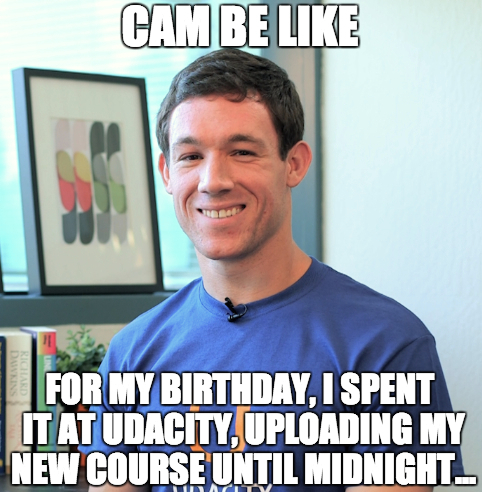
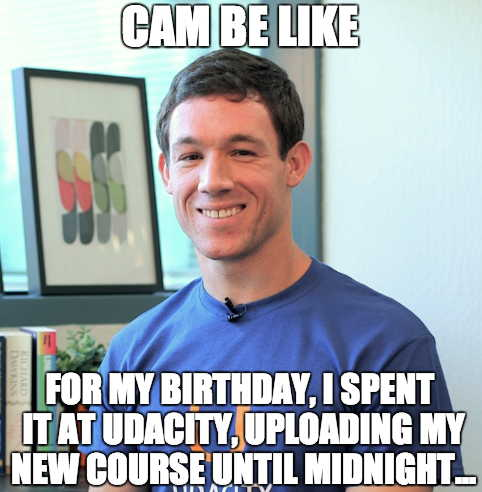
compress other images

diff --git a/views/js/main.min.js b/views/js/main.min.js
@@ -1,1 +1,1 @@
-function getAdj(e){switch(e){case"dark":var a=["dark","morbid","scary","spooky","gothic","deviant","creepy","sadistic","black","dangerous","dejected","haunted","morose","tragic","shattered","broken","sad","melancholy","somber","dark","gloomy","homicidal","murderous","shady","misty","dusky","ghostly","shadowy","demented","cursed","insane","possessed","grotesque","obsessed"];return a;case"color":var r=["blue","green","purple","grey","scarlet","NeonGreen","NeonBlue","NeonPink","HotPink","pink","black","red","maroon","silver","golden","yellow","orange","mustard","plum","violet","cerulean","brown","lavender","violet","magenta","chestnut","rosy","copper","crimson","teal","indigo","navy","azure","periwinkle","brassy","verdigris","veridian","tan","raspberry","beige","sandy","ElectricBlue","white","champagne","coral","cyan"];return r;case"whimsical":var n=["whimsical","silly","drunken","goofy","funny","weird","strange","odd","playful","clever","boastful","breakdancing","hilarious","conceited","happy","comical","curious","peculiar","quaint","quirky","fancy","wayward","fickle","yawning","sleepy","cockeyed","dizzy","dancing","absurd","laughing","hairy","smiling","perplexed","baffled","cockamamie","vulgar","hoodwinked","brainwashed"];return n;case"shiny":var i=["sapphire","opal","silver","gold","platinum","ruby","emerald","topaz","diamond","amethyst","turquoise","starlit","moonlit","bronze","metal","jade","amber","garnet","obsidian","onyx","pearl","copper","sunlit","brass","brassy","metallic"];return i;case"noisy":var t=["untuned","loud","soft","shrieking","melodious","musical","operatic","symphonic","dancing","lyrical","harmonic","orchestral","noisy","dissonant","rhythmic","hissing","singing","crooning","shouting","screaming","wailing","crying","howling","yelling","hollering","caterwauling","bawling","bellowing","roaring","squealing","beeping","knocking","tapping","rapping","humming","scatting","whispered","whispering","rasping","buzzing","whirring","whistling","whistled"];return t;case"apocalyptic":var o=["nuclear","apocalyptic","desolate","atomic","zombie","collapsed","grim","fallen","collapsed","cannibalistic","radioactive","toxic","poisonous","venomous","disastrous","grimy","dirty","undead","bloodshot","rusty","glowing","decaying","rotten","deadly","plagued","decimated","rotting","putrid","decayed","deserted","acidic"];return o;case"insulting":var s=["stupid","idiotic","fat","ugly","hideous","grotesque","dull","dumb","lazy","sluggish","brainless","slow","gullible","obtuse","dense","dim","dazed","ridiculous","witless","daft","crazy","vapid","inane","mundane","hollow","vacuous","boring","insipid","tedious","monotonous","weird","bizarre","backward","moronic","ignorant","scatterbrained","forgetful","careless","lethargic","insolent","indolent","loitering","gross","disgusting","bland","horrid","unseemly","revolting","homely","deformed","disfigured","offensive","cowardly","weak","villainous","fearful","monstrous","unattractive","unpleasant","nasty","beastly","snide","horrible","syncophantic","unhelpful","bootlicking"];return s;case"praise":var l=["beautiful","intelligent","smart","genius","ingenious","gorgeous","pretty","witty","angelic","handsome","graceful","talented","exquisite","enchanting","fascinating","interesting","divine","alluring","ravishing","wonderful","magnificient","marvelous","dazzling","cute","charming","attractive","nifty","delightful","superior","amiable","gentle","heroic","courageous","valiant","brave","noble","daring","fearless","gallant","adventurous","cool","enthusiastic","fierce","awesome","radical","tubular","fearsome","majestic","grand","stunning"];return l;case"scientific":var c=["scientific","technical","digital","programming","calculating","formulating","cyberpunk","mechanical","technological","innovative","brainy","chemical","quantum","astro","space","theoretical","atomic","electronic","gaseous","investigative","solar","extinct","galactic"];return c;default:var c=["scientific","technical","digital","programming","calculating","formulating","cyberpunk","mechanical","technological","innovative","brainy","chemical","quantum","astro","space","theoretical","atomic","electronic","gaseous","investigative","solar","extinct","galactic"];return c}}function getNoun(e){switch(e){case"animals":var a=["flamingo","hedgehog","owl","elephant","pussycat","alligator","dachsund","poodle","beagle","crocodile","kangaroo","wallaby","woodpecker","eagle","falcon","canary","parrot","parakeet","hamster","gerbil","squirrel","rat","dove","toucan","raccoon","vulture","peacock","goldfish","rook","koala","skunk","goat","rooster","fox","porcupine","llama","grasshopper","gorilla","monkey","seahorse","wombat","wolf","giraffe","badger","lion","mouse","beetle","cricket","nightingale","hawk","trout","squid","octopus","sloth","snail","locust","baboon","lemur","meerkat","oyster","frog","toad","jellyfish","butterfly","caterpillar","tiger","hyena","zebra","snail","pig","weasel","donkey","penguin","crane","buzzard","vulture","rhino","hippopotamus","dolphin","sparrow","beaver","moose","minnow","otter","bat","mongoose","swan","firefly","platypus"];return a;case"profession":var r=["doctor","lawyer","ninja","writer","samurai","surgeon","clerk","artist","actor","engineer","mechanic","comedian","fireman","nurse","RockStar","musician","carpenter","plumber","cashier","electrician","waiter","president","governor","senator","scientist","programmer","singer","dancer","director","mayor","merchant","detective","investigator","navigator","pilot","priest","cowboy","stagehand","soldier","ambassador","pirate","miner","police"];return r;case"fantasy":var n=["centaur","wizard","gnome","orc","troll","sword","fairy","pegasus","halfling","elf","changeling","ghost","knight","squire","magician","witch","warlock","unicorn","dragon","wyvern","princess","prince","king","queen","jester","tower","castle","kraken","seamonster","mermaid","psychic","seer","oracle"];return n;case"music":var i=["violin","flute","bagpipe","guitar","symphony","orchestra","piano","trombone","tuba","opera","drums","harpsichord","harp","harmonica","accordion","tenor","soprano","baritone","cello","viola","piccolo","ukelele","woodwind","saxophone","bugle","trumpet","sousaphone","cornet","stradivarius","marimbas","bells","timpani","bongos","clarinet","recorder","oboe","conductor","singer"];return i;case"horror":var t=["murderer","chainsaw","knife","sword","murder","devil","killer","psycho","ghost","monster","godzilla","werewolf","vampire","demon","graveyard","zombie","mummy","curse","death","grave","tomb","beast","nightmare","frankenstein","specter","poltergeist","wraith","corpse","scream","massacre","cannibal","skull","bones","undertaker","zombie","creature","mask","psychopath","fiend","satanist","moon","fullMoon"];return t;case"gross":var o=["slime","bug","roach","fluid","pus","booger","spit","boil","blister","orifice","secretion","mucus","phlegm","centipede","beetle","fart","snot","crevice","flatulence","juice","mold","mildew","germs","discharge","toilet","udder","odor","substance","fluid","moisture","garbage","trash","bug"];return o;case"everyday":var s=["mirror","knife","fork","spork","spoon","tupperware","minivan","suburb","lamp","desk","stereo","television","TV","book","car","truck","soda","door","video","game","computer","calender","tree","plant","flower","chimney","attic","kitchen","garden","school","wallet","bottle"];return s;case"jewelry":var l=["earrings","ring","necklace","pendant","choker","brooch","bracelet","cameo","charm","bauble","trinket","jewelry","anklet","bangle","locket","finery","crown","tiara","blingBling","chain","rosary","jewel","gemstone","beads","armband","pin","costume","ornament","treasure"];return l;case"places":var c=["swamp","graveyard","cemetery","park","building","house","river","ocean","sea","field","forest","woods","neighborhood","city","town","suburb","country","meadow","cliffs","lake","stream","creek","school","college","university","library","bakery","shop","store","theater","garden","canyon","highway","restaurant","cafe","diner","street","road","freeway","alley"];return c;case"scifi":var u=["robot","alien","raygun","spaceship","UFO","rocket","phaser","astronaut","spaceman","planet","star","galaxy","computer","future","timeMachine","wormHole","timeTraveler","scientist","invention","martian","pluto","jupiter","saturn","mars","quasar","blackHole","warpDrive","laser","orbit","gears","molecule","electron","neutrino","proton","experiment","photon","apparatus","universe","gravity","darkMatter","constellation","circuit","asteroid"];return u;default:var u=["robot","alien","raygun","spaceship","UFO","rocket","phaser","astronaut","spaceman","planet","star","galaxy","computer","future","timeMachine","wormHole","timeTraveler","scientist","invention","martian","pluto","jupiter","saturn","mars","quasar","blackHole","warpDrive","laser","orbit","gears","molecule","electron","neutrino","proton","experiment","photon","apparatus","universe","gravity","darkMatter","constellation","circuit","asteroid"];return u}}function generator(e,a){var r=getAdj(e),n=getNoun(a),i=parseInt(Math.random()*r.length),t=parseInt(Math.random()*n.length),o="The "+r[i].capitalize()+" "+n[t].capitalize();return o}function randomName(){var e=parseInt(Math.random()*adjectives.length),a=parseInt(Math.random()*nouns.length);return generator(adjectives[e],nouns[a])}function logAverageFrame(e){for(var a=e.length,r=0,n=a-1;n>a-11;n--)r+=e[n].duration;console.log("Average time to generate last 10 frames: "+r/10+"ms")}function updatePositions(e){function a(e){return/^\d*$/.test(e)}frame++,window.performance.mark("mark_start_frame");var r,n=document.querySelectorAll(".mover");r=a(e)?e:document.body.scrollTop;for(var i=0;i<n.length;i++){var t=Math.sin(r/1250+i%5);n[i].style.transform="translateX("+100*t+"px)"}if(window.performance.mark("mark_end_frame"),window.performance.measure("measure_frame_duration","mark_start_frame","mark_end_frame"),frame%10===0){var o=window.performance.getEntriesByName("measure_frame_duration");logAverageFrame(o)}}function genMovPizzas(){for(var e=8,a=256,r=document.querySelector("#movingPizzas1"),n=0;200>n;n++){var i=document.createElement("img");i.className="mover",i.src="images/pizza.webp",i.style.height="100px",i.style.width="73.333px",i.style.left=n%e*a+"px",i.style.top=Math.floor(n/e)*a+"px",r.appendChild(i)}updatePositions(0)}var pizzaIngredients={};pizzaIngredients.meats=["Pepperoni","Sausage","Fennel Sausage","Spicy Sausage","Chicken","BBQ Chicken","Chorizo","Chicken Andouille","Salami","Tofu","Bacon","Canadian Bacon","Proscuitto","Italian Sausage","Ground Beef","Anchovies","Turkey","Ham","Venison","Lamb","Duck","Soylent Green","Carne Asada","Soppressata Picante","Coppa","Pancetta","Bresola","Lox","Guanciale","Chili","Beef Jerky","Pastrami","Kielbasa","Scallops","Filet Mignon"],pizzaIngredients.nonMeats=["White Onions","Red Onions","Sauteed Onions","Green Peppers","Red Peppers","Banana Peppers","Ghost Peppers","Habanero Peppers","Jalapeno Peppers","Stuffed Peppers","Spinach","Tomatoes","Pineapple","Pear Slices","Apple Slices","Mushrooms","Arugula","Basil","Fennel","Rosemary","Cilantro","Avocado","Guacamole","Salsa","Swiss Chard","Kale","Sun Dried Tomatoes","Walnuts","Artichoke","Asparagus","Caramelized Onions","Mango","Garlic","Olives","Cauliflower","Polenta","Fried Egg","Zucchini","Hummus"],pizzaIngredients.cheeses=["American Cheese","Swiss Cheese","Goat Cheese","Mozzarella Cheese","Parmesean Cheese","Velveeta Cheese","Gouda Cheese","Muenster Cheese","Applewood Cheese","Asiago Cheese","Bleu Cheese","Boursin Cheese","Brie Cheese","Cheddar Cheese","Chevre Cheese","Havarti Cheese","Jack Cheese","Pepper Jack Cheese","Gruyere Cheese","Limberger Cheese","Manchego Cheese","Marscapone Cheese","Pecorino Cheese","Provolone Cheese","Queso Cheese","Roquefort Cheese","Romano Cheese","Ricotta Cheese","Smoked Gouda"],pizzaIngredients.sauces=["Red Sauce","Marinara","BBQ Sauce","No Sauce","Hot Sauce"],pizzaIngredients.crusts=["White Crust","Whole Wheat Crust","Flatbread Crust","Stuffed Crust"],String.prototype.capitalize=function(){return this.charAt(0).toUpperCase()+this.slice(1)};var adjectives=["dark","color","whimsical","shiny","noise","apocalyptic","insulting","praise","scientific"],nouns=["animals","everyday","fantasy","gross","horror","jewelry","places","scifi"],selectRandomMeat=function(){var e=pizzaIngredients.meats[Math.floor(Math.random()*pizzaIngredients.meats.length)];return e},selectRandomNonMeat=function(){var e=pizzaIngredients.nonMeats[Math.floor(Math.random()*pizzaIngredients.nonMeats.length)];return e},selectRandomCheese=function(){var e=pizzaIngredients.cheeses[Math.floor(Math.random()*pizzaIngredients.cheeses.length)];return e},selectRandomSauce=function(){var e=pizzaIngredients.sauces[Math.floor(Math.random()*pizzaIngredients.sauces.length)];return e},selectRandomCrust=function(){var e=pizzaIngredients.crusts[Math.floor(Math.random()*pizzaIngredients.crusts.length)];return e},ingredientItemizer=function(e){return"<li>"+e+"</li>"},makeRandomPizza=function(){for(var e="",a=Math.floor(4*Math.random()),r=Math.floor(3*Math.random()),n=Math.floor(2*Math.random()),i=0;a>i;i++)e+=ingredientItemizer(selectRandomMeat());for(var i=0;r>i;i++)e+=ingredientItemizer(selectRandomNonMeat());for(var i=0;n>i;i++)e+=ingredientItemizer(selectRandomCheese());return e+=ingredientItemizer(selectRandomSauce()),e+=ingredientItemizer(selectRandomCrust())},pizzaElementGenerator=function(e){var a,r,n,i,t,o;return a=document.createElement("div"),r=document.createElement("div"),n=document.createElement("img"),i=document.createElement("div"),a.classList.add("randomPizzaContainer"),a.style.width="33.33%",a.style.height="325px",a.id="pizza"+e,r.classList.add("col-md-6"),n.src="images/pizza.webp",n.classList.add("img-responsive"),r.appendChild(n),a.appendChild(r),i.classList.add("col-md-6"),t=document.createElement("h4"),t.innerHTML=randomName(),i.appendChild(t),o=document.createElement("ul"),o.innerHTML=makeRandomPizza(),i.appendChild(o),a.appendChild(i),a},resizePizzas=function(e){function a(e){switch(e){case"1":return void(document.querySelector("#pizzaSize").innerHTML="Small");case"2":return void(document.querySelector("#pizzaSize").innerHTML="Medium");case"3":return void(document.querySelector("#pizzaSize").innerHTML="Large");default:console.log("bug in changeSliderLabel")}}function r(e,a){function r(e){switch(e){case"1":return.25;case"2":return.3333;case"3":return.5;default:console.log("bug in sizeSwitcher")}}var n=e.offsetWidth,i=document.querySelector("#randomPizzas").offsetWidth,t=n/i,o=r(a),s=(o-t)*i;return s}function n(e){var a,n=document.querySelectorAll(".randomPizzaContainer");for(a=0;a<n.length;a++){var i=r(n[a],e),t=n[a].offsetWidth+i+"px";n[a].style.width=t}}window.performance.mark("mark_start_resize"),a(e),n(e),window.performance.mark("mark_end_resize"),window.performance.measure("measure_pizza_resize","mark_start_resize","mark_end_resize");var i=window.performance.getEntriesByName("measure_pizza_resize");console.log("Time to resize pizzas: "+i[0].duration+"ms")};window.performance.mark("mark_start_generating");for(var pizzasDiv=document.getElementById("randomPizzas"),i=2;100>i;i++)pizzasDiv.appendChild(pizzaElementGenerator(i));window.performance.mark("mark_end_generating"),window.performance.measure("measure_pizza_generation","mark_start_generating","mark_end_generating");var timeToGenerate=window.performance.getEntriesByName("measure_pizza_generation");console.log("Time to generate pizzas on load: "+timeToGenerate[0].duration+"ms");var frame=0;window.addEventListener("scroll",updatePositions),"loading"!=document.readyState?genMovPizzas():document.addEventListener("DOMContentLoaded",genMovPizzas);
+function getAdj(e){switch(e){case"dark":var a=["dark","morbid","scary","spooky","gothic","deviant","creepy","sadistic","black","dangerous","dejected","haunted","morose","tragic","shattered","broken","sad","melancholy","somber","dark","gloomy","homicidal","murderous","shady","misty","dusky","ghostly","shadowy","demented","cursed","insane","possessed","grotesque","obsessed"];return a;case"color":var r=["blue","green","purple","grey","scarlet","NeonGreen","NeonBlue","NeonPink","HotPink","pink","black","red","maroon","silver","golden","yellow","orange","mustard","plum","violet","cerulean","brown","lavender","violet","magenta","chestnut","rosy","copper","crimson","teal","indigo","navy","azure","periwinkle","brassy","verdigris","veridian","tan","raspberry","beige","sandy","ElectricBlue","white","champagne","coral","cyan"];return r;case"whimsical":var n=["whimsical","silly","drunken","goofy","funny","weird","strange","odd","playful","clever","boastful","breakdancing","hilarious","conceited","happy","comical","curious","peculiar","quaint","quirky","fancy","wayward","fickle","yawning","sleepy","cockeyed","dizzy","dancing","absurd","laughing","hairy","smiling","perplexed","baffled","cockamamie","vulgar","hoodwinked","brainwashed"];return n;case"shiny":var i=["sapphire","opal","silver","gold","platinum","ruby","emerald","topaz","diamond","amethyst","turquoise","starlit","moonlit","bronze","metal","jade","amber","garnet","obsidian","onyx","pearl","copper","sunlit","brass","brassy","metallic"];return i;case"noisy":var t=["untuned","loud","soft","shrieking","melodious","musical","operatic","symphonic","dancing","lyrical","harmonic","orchestral","noisy","dissonant","rhythmic","hissing","singing","crooning","shouting","screaming","wailing","crying","howling","yelling","hollering","caterwauling","bawling","bellowing","roaring","squealing","beeping","knocking","tapping","rapping","humming","scatting","whispered","whispering","rasping","buzzing","whirring","whistling","whistled"];return t;case"apocalyptic":var o=["nuclear","apocalyptic","desolate","atomic","zombie","collapsed","grim","fallen","collapsed","cannibalistic","radioactive","toxic","poisonous","venomous","disastrous","grimy","dirty","undead","bloodshot","rusty","glowing","decaying","rotten","deadly","plagued","decimated","rotting","putrid","decayed","deserted","acidic"];return o;case"insulting":var s=["stupid","idiotic","fat","ugly","hideous","grotesque","dull","dumb","lazy","sluggish","brainless","slow","gullible","obtuse","dense","dim","dazed","ridiculous","witless","daft","crazy","vapid","inane","mundane","hollow","vacuous","boring","insipid","tedious","monotonous","weird","bizarre","backward","moronic","ignorant","scatterbrained","forgetful","careless","lethargic","insolent","indolent","loitering","gross","disgusting","bland","horrid","unseemly","revolting","homely","deformed","disfigured","offensive","cowardly","weak","villainous","fearful","monstrous","unattractive","unpleasant","nasty","beastly","snide","horrible","syncophantic","unhelpful","bootlicking"];return s;case"praise":var l=["beautiful","intelligent","smart","genius","ingenious","gorgeous","pretty","witty","angelic","handsome","graceful","talented","exquisite","enchanting","fascinating","interesting","divine","alluring","ravishing","wonderful","magnificient","marvelous","dazzling","cute","charming","attractive","nifty","delightful","superior","amiable","gentle","heroic","courageous","valiant","brave","noble","daring","fearless","gallant","adventurous","cool","enthusiastic","fierce","awesome","radical","tubular","fearsome","majestic","grand","stunning"];return l;case"scientific":var c=["scientific","technical","digital","programming","calculating","formulating","cyberpunk","mechanical","technological","innovative","brainy","chemical","quantum","astro","space","theoretical","atomic","electronic","gaseous","investigative","solar","extinct","galactic"];return c;default:var c=["scientific","technical","digital","programming","calculating","formulating","cyberpunk","mechanical","technological","innovative","brainy","chemical","quantum","astro","space","theoretical","atomic","electronic","gaseous","investigative","solar","extinct","galactic"];return c}}function getNoun(e){switch(e){case"animals":var a=["flamingo","hedgehog","owl","elephant","pussycat","alligator","dachsund","poodle","beagle","crocodile","kangaroo","wallaby","woodpecker","eagle","falcon","canary","parrot","parakeet","hamster","gerbil","squirrel","rat","dove","toucan","raccoon","vulture","peacock","goldfish","rook","koala","skunk","goat","rooster","fox","porcupine","llama","grasshopper","gorilla","monkey","seahorse","wombat","wolf","giraffe","badger","lion","mouse","beetle","cricket","nightingale","hawk","trout","squid","octopus","sloth","snail","locust","baboon","lemur","meerkat","oyster","frog","toad","jellyfish","butterfly","caterpillar","tiger","hyena","zebra","snail","pig","weasel","donkey","penguin","crane","buzzard","vulture","rhino","hippopotamus","dolphin","sparrow","beaver","moose","minnow","otter","bat","mongoose","swan","firefly","platypus"];return a;case"profession":var r=["doctor","lawyer","ninja","writer","samurai","surgeon","clerk","artist","actor","engineer","mechanic","comedian","fireman","nurse","RockStar","musician","carpenter","plumber","cashier","electrician","waiter","president","governor","senator","scientist","programmer","singer","dancer","director","mayor","merchant","detective","investigator","navigator","pilot","priest","cowboy","stagehand","soldier","ambassador","pirate","miner","police"];return r;case"fantasy":var n=["centaur","wizard","gnome","orc","troll","sword","fairy","pegasus","halfling","elf","changeling","ghost","knight","squire","magician","witch","warlock","unicorn","dragon","wyvern","princess","prince","king","queen","jester","tower","castle","kraken","seamonster","mermaid","psychic","seer","oracle"];return n;case"music":var i=["violin","flute","bagpipe","guitar","symphony","orchestra","piano","trombone","tuba","opera","drums","harpsichord","harp","harmonica","accordion","tenor","soprano","baritone","cello","viola","piccolo","ukelele","woodwind","saxophone","bugle","trumpet","sousaphone","cornet","stradivarius","marimbas","bells","timpani","bongos","clarinet","recorder","oboe","conductor","singer"];return i;case"horror":var t=["murderer","chainsaw","knife","sword","murder","devil","killer","psycho","ghost","monster","godzilla","werewolf","vampire","demon","graveyard","zombie","mummy","curse","death","grave","tomb","beast","nightmare","frankenstein","specter","poltergeist","wraith","corpse","scream","massacre","cannibal","skull","bones","undertaker","zombie","creature","mask","psychopath","fiend","satanist","moon","fullMoon"];return t;case"gross":var o=["slime","bug","roach","fluid","pus","booger","spit","boil","blister","orifice","secretion","mucus","phlegm","centipede","beetle","fart","snot","crevice","flatulence","juice","mold","mildew","germs","discharge","toilet","udder","odor","substance","fluid","moisture","garbage","trash","bug"];return o;case"everyday":var s=["mirror","knife","fork","spork","spoon","tupperware","minivan","suburb","lamp","desk","stereo","television","TV","book","car","truck","soda","door","video","game","computer","calender","tree","plant","flower","chimney","attic","kitchen","garden","school","wallet","bottle"];return s;case"jewelry":var l=["earrings","ring","necklace","pendant","choker","brooch","bracelet","cameo","charm","bauble","trinket","jewelry","anklet","bangle","locket","finery","crown","tiara","blingBling","chain","rosary","jewel","gemstone","beads","armband","pin","costume","ornament","treasure"];return l;case"places":var c=["swamp","graveyard","cemetery","park","building","house","river","ocean","sea","field","forest","woods","neighborhood","city","town","suburb","country","meadow","cliffs","lake","stream","creek","school","college","university","library","bakery","shop","store","theater","garden","canyon","highway","restaurant","cafe","diner","street","road","freeway","alley"];return c;case"scifi":var u=["robot","alien","raygun","spaceship","UFO","rocket","phaser","astronaut","spaceman","planet","star","galaxy","computer","future","timeMachine","wormHole","timeTraveler","scientist","invention","martian","pluto","jupiter","saturn","mars","quasar","blackHole","warpDrive","laser","orbit","gears","molecule","electron","neutrino","proton","experiment","photon","apparatus","universe","gravity","darkMatter","constellation","circuit","asteroid"];return u;default:var u=["robot","alien","raygun","spaceship","UFO","rocket","phaser","astronaut","spaceman","planet","star","galaxy","computer","future","timeMachine","wormHole","timeTraveler","scientist","invention","martian","pluto","jupiter","saturn","mars","quasar","blackHole","warpDrive","laser","orbit","gears","molecule","electron","neutrino","proton","experiment","photon","apparatus","universe","gravity","darkMatter","constellation","circuit","asteroid"];return u}}function generator(e,a){var r=getAdj(e),n=getNoun(a),i=parseInt(Math.random()*r.length),t=parseInt(Math.random()*n.length),o="The "+r[i].capitalize()+" "+n[t].capitalize();return o}function randomName(){var e=parseInt(Math.random()*adjectives.length),a=parseInt(Math.random()*nouns.length);return generator(adjectives[e],nouns[a])}function logAverageFrame(e){for(var a=e.length,r=0,n=a-1;n>a-11;n--)r+=e[n].duration;console.log("Average time to generate last 10 frames: "+r/10+"ms")}function updatePositions(e){function a(e){return/^\d*$/.test(e)}frame++,window.performance.mark("mark_start_frame");var r,n=document.querySelectorAll(".mover");r=a(e)?e:document.body.scrollTop;for(var i=n.length,t=0;i>t;t++){var o=Math.sin(r/1250+t%5);n[t].style.transform="translateX("+100*o+"px)"}if(window.performance.mark("mark_end_frame"),window.performance.measure("measure_frame_duration","mark_start_frame","mark_end_frame"),frame%10===0){var s=window.performance.getEntriesByName("measure_frame_duration");logAverageFrame(s)}}function genMovPizzas(){for(var e=8,a=256,r=document.querySelector("#movingPizzas1"),n=0;200>n;n++){var i=document.createElement("img");i.className="mover",i.src="images/pizza.webp",i.style.height="100px",i.style.width="73.333px",i.style.left=n%e*a+"px",i.style.top=Math.floor(n/e)*a+"px",r.appendChild(i)}updatePositions(0)}var pizzaIngredients={};pizzaIngredients.meats=["Pepperoni","Sausage","Fennel Sausage","Spicy Sausage","Chicken","BBQ Chicken","Chorizo","Chicken Andouille","Salami","Tofu","Bacon","Canadian Bacon","Proscuitto","Italian Sausage","Ground Beef","Anchovies","Turkey","Ham","Venison","Lamb","Duck","Soylent Green","Carne Asada","Soppressata Picante","Coppa","Pancetta","Bresola","Lox","Guanciale","Chili","Beef Jerky","Pastrami","Kielbasa","Scallops","Filet Mignon"],pizzaIngredients.nonMeats=["White Onions","Red Onions","Sauteed Onions","Green Peppers","Red Peppers","Banana Peppers","Ghost Peppers","Habanero Peppers","Jalapeno Peppers","Stuffed Peppers","Spinach","Tomatoes","Pineapple","Pear Slices","Apple Slices","Mushrooms","Arugula","Basil","Fennel","Rosemary","Cilantro","Avocado","Guacamole","Salsa","Swiss Chard","Kale","Sun Dried Tomatoes","Walnuts","Artichoke","Asparagus","Caramelized Onions","Mango","Garlic","Olives","Cauliflower","Polenta","Fried Egg","Zucchini","Hummus"],pizzaIngredients.cheeses=["American Cheese","Swiss Cheese","Goat Cheese","Mozzarella Cheese","Parmesean Cheese","Velveeta Cheese","Gouda Cheese","Muenster Cheese","Applewood Cheese","Asiago Cheese","Bleu Cheese","Boursin Cheese","Brie Cheese","Cheddar Cheese","Chevre Cheese","Havarti Cheese","Jack Cheese","Pepper Jack Cheese","Gruyere Cheese","Limberger Cheese","Manchego Cheese","Marscapone Cheese","Pecorino Cheese","Provolone Cheese","Queso Cheese","Roquefort Cheese","Romano Cheese","Ricotta Cheese","Smoked Gouda"],pizzaIngredients.sauces=["Red Sauce","Marinara","BBQ Sauce","No Sauce","Hot Sauce"],pizzaIngredients.crusts=["White Crust","Whole Wheat Crust","Flatbread Crust","Stuffed Crust"],String.prototype.capitalize=function(){return this.charAt(0).toUpperCase()+this.slice(1)};var adjectives=["dark","color","whimsical","shiny","noise","apocalyptic","insulting","praise","scientific"],nouns=["animals","everyday","fantasy","gross","horror","jewelry","places","scifi"],selectRandomMeat=function(){var e=pizzaIngredients.meats[Math.floor(Math.random()*pizzaIngredients.meats.length)];return e},selectRandomNonMeat=function(){var e=pizzaIngredients.nonMeats[Math.floor(Math.random()*pizzaIngredients.nonMeats.length)];return e},selectRandomCheese=function(){var e=pizzaIngredients.cheeses[Math.floor(Math.random()*pizzaIngredients.cheeses.length)];return e},selectRandomSauce=function(){var e=pizzaIngredients.sauces[Math.floor(Math.random()*pizzaIngredients.sauces.length)];return e},selectRandomCrust=function(){var e=pizzaIngredients.crusts[Math.floor(Math.random()*pizzaIngredients.crusts.length)];return e},ingredientItemizer=function(e){return"<li>"+e+"</li>"},makeRandomPizza=function(){for(var e="",a=Math.floor(4*Math.random()),r=Math.floor(3*Math.random()),n=Math.floor(2*Math.random()),i=0;a>i;i++)e+=ingredientItemizer(selectRandomMeat());for(var i=0;r>i;i++)e+=ingredientItemizer(selectRandomNonMeat());for(var i=0;n>i;i++)e+=ingredientItemizer(selectRandomCheese());return e+=ingredientItemizer(selectRandomSauce()),e+=ingredientItemizer(selectRandomCrust())},pizzaElementGenerator=function(e){var a,r,n,i,t,o;return a=document.createElement("div"),r=document.createElement("div"),n=document.createElement("img"),i=document.createElement("div"),a.classList.add("randomPizzaContainer"),a.style.width="33.33%",a.style.height="325px",a.id="pizza"+e,r.classList.add("col-md-6"),n.src="images/pizza.webp",n.classList.add("img-responsive"),r.appendChild(n),a.appendChild(r),i.classList.add("col-md-6"),t=document.createElement("h4"),t.innerHTML=randomName(),i.appendChild(t),o=document.createElement("ul"),o.innerHTML=makeRandomPizza(),i.appendChild(o),a.appendChild(i),a},resizePizzas=function(e){function a(e){switch(e){case"1":return void(document.querySelector("#pizzaSize").innerHTML="Small");case"2":return void(document.querySelector("#pizzaSize").innerHTML="Medium");case"3":return void(document.querySelector("#pizzaSize").innerHTML="Large");default:console.log("bug in changeSliderLabel")}}function r(e,a){function r(e){switch(e){case"1":return.25;case"2":return.3333;case"3":return.5;default:console.log("bug in sizeSwitcher")}}var n=e.offsetWidth,i=document.querySelector("#randomPizzas").offsetWidth,t=n/i,o=r(a),s=(o-t)*i;return s}function n(e){var a,n=document.querySelectorAll(".randomPizzaContainer"),i=n.length;for(a=0;i>a;a++){var t=r(n[a],e),o=n[a].offsetWidth+t+"px";n[a].style.width=o}}window.performance.mark("mark_start_resize"),a(e),n(e),window.performance.mark("mark_end_resize"),window.performance.measure("measure_pizza_resize","mark_start_resize","mark_end_resize");var i=window.performance.getEntriesByName("measure_pizza_resize");console.log("Time to resize pizzas: "+i[0].duration+"ms")};window.performance.mark("mark_start_generating");for(var pizzasDiv=document.getElementById("randomPizzas"),i=2;100>i;i++)pizzasDiv.appendChild(pizzaElementGenerator(i));window.performance.mark("mark_end_generating"),window.performance.measure("measure_pizza_generation","mark_start_generating","mark_end_generating");var timeToGenerate=window.performance.getEntriesByName("measure_pizza_generation");console.log("Time to generate pizzas on load: "+timeToGenerate[0].duration+"ms");var frame=0;window.addEventListener("scroll",updatePositions),"loading"!=document.readyState?genMovPizzas():document.addEventListener("DOMContentLoaded",genMovPizzas);

diff --git a/views/js/main.js b/views/js/main.js
@@ -453,8 +453,9 @@ var resizePizzas = function(size) {
   // Iterates through pizza elements on the page and changes their widths
   function changePizzaSizes(size) {
     var i,
-        randomPizzaContainerDiv = document.querySelectorAll(".randomPizzaContainer");
-    for (i = 0; i < randomPizzaContainerDiv.length; i++) {
+        randomPizzaContainerDiv = document.querySelectorAll(".randomPizzaContainer"),
+        ranDivLen = randomPizzaContainerDiv.length;
+    for (i = 0; i < ranDivLen; i++) {
       var dx = determineDx(randomPizzaContainerDiv[i], size);
       var newwidth = (randomPizzaContainerDiv[i].offsetWidth + dx) + "px";
       randomPizzaContainerDiv[i].style.width = newwidth;
@@ -520,8 +521,9 @@ function updatePositions(scrollTopVal) {
   } else {
     getScrollTop = document.body.scrollTop;
   }
+  var itemsLen = items.length;
 
-  for (var i = 0; i < items.length; i++) {
+  for (var i = 0; i < itemsLen; i++) {
     var phase = Math.sin(( getScrollTop / 1250) + (i % 5));
     
     /* Animate using CSS transform: translateX rather than changing the CSS left

diff --git a/project-webperf.html b/project-webperf.html
@@ -106,7 +106,7 @@
         <p>Thanks to everyone at Udacity and Google who made this class happen! Now for a very true meme and some <strike>lorem</strike> bacon ipsum.</p>
         
         <!-- optimize cam_be_like and upload to imgur -->
-        <img src="http://i.imgur.com/pZisFRN.jpg">
+        <img src="http://i.imgur.com/YBGFfj5.jpg">
 
         <p>Bacon ipsum dolor sit amet et pork belly porchetta excepteur dolor, laborum laboris magna labore dolore in fugiat beef ribs. Fugiat leberkas nulla do kevin dolore. Flank hamburger dolor swine prosciutto sirloin pig jerky sunt consequat pariatur. Mollit meatloaf nostrud laboris shoulder excepteur velit officia meatball nisi turkey. Nulla jowl spare ribs, et drumstick magna frankfurter.</p>
 

diff --git a/index.html b/index.html
@@ -123,11 +123,12 @@
 
           <li>
             <!-- Resize and optimize pizzeria.jpg and upload to imgur to enable caching -->
-            <img style="width: 100px;" src="http://i.imgur.com/M3ZTii6.jpg">
+            <img style="width: 100px;" src="http://i.imgur.com/mXRRVT3.jpg">
             <a href="views/pizza.html">Cam's Pizzeria</a>
             <p>Who wants a performant pizza?</p>
           </li>
         </ul>
+      </div>
     </div>
 
     <footer>
